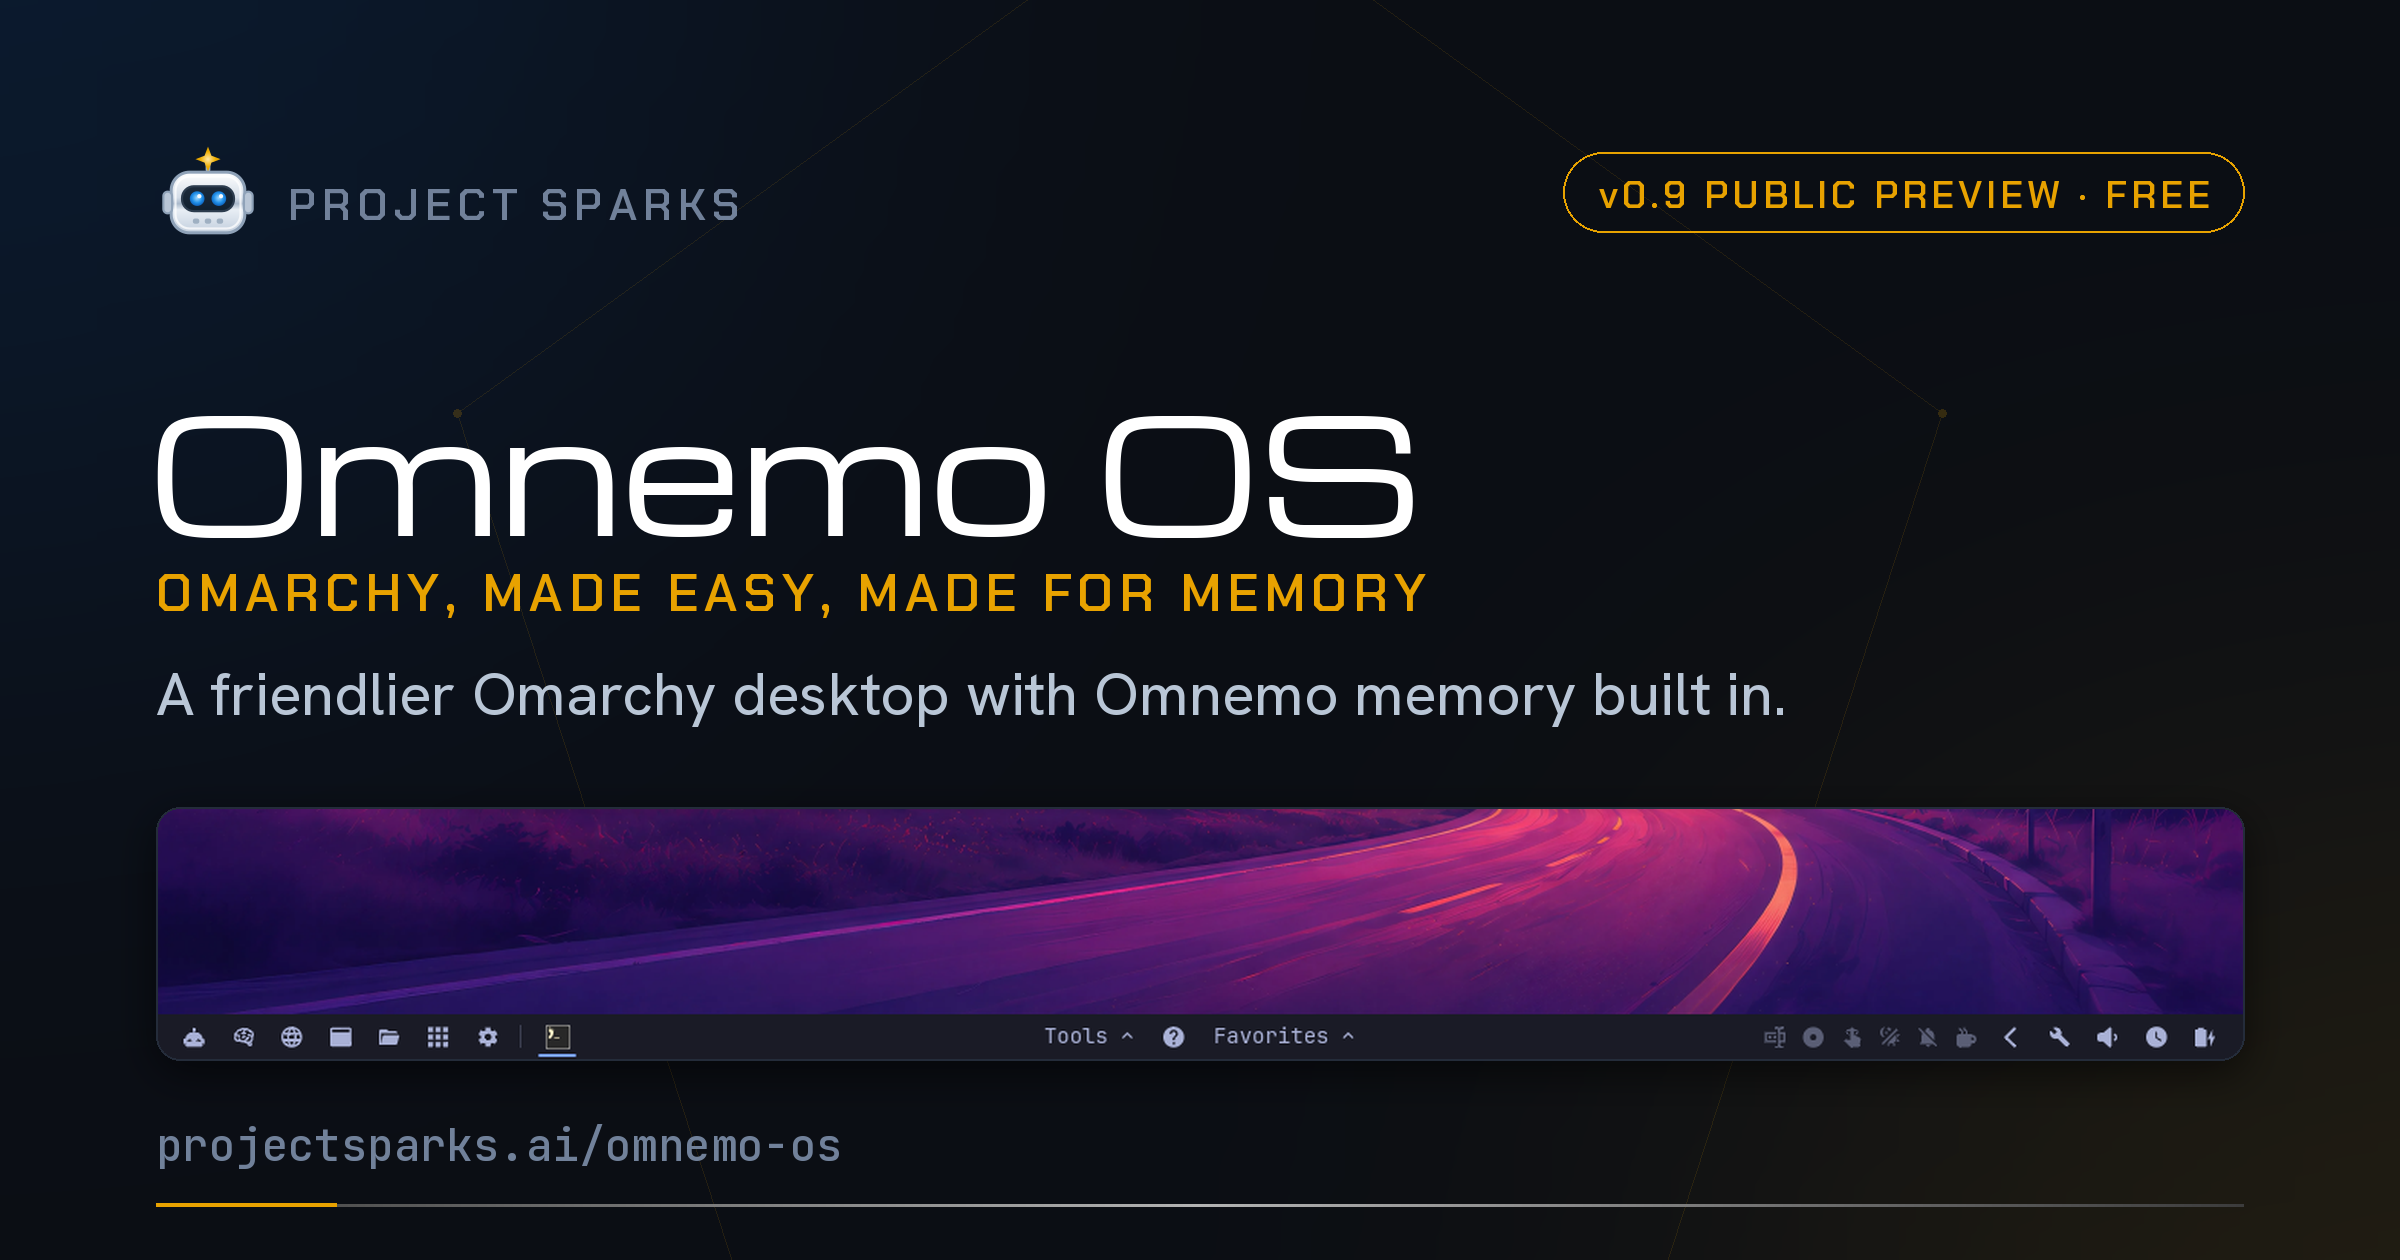
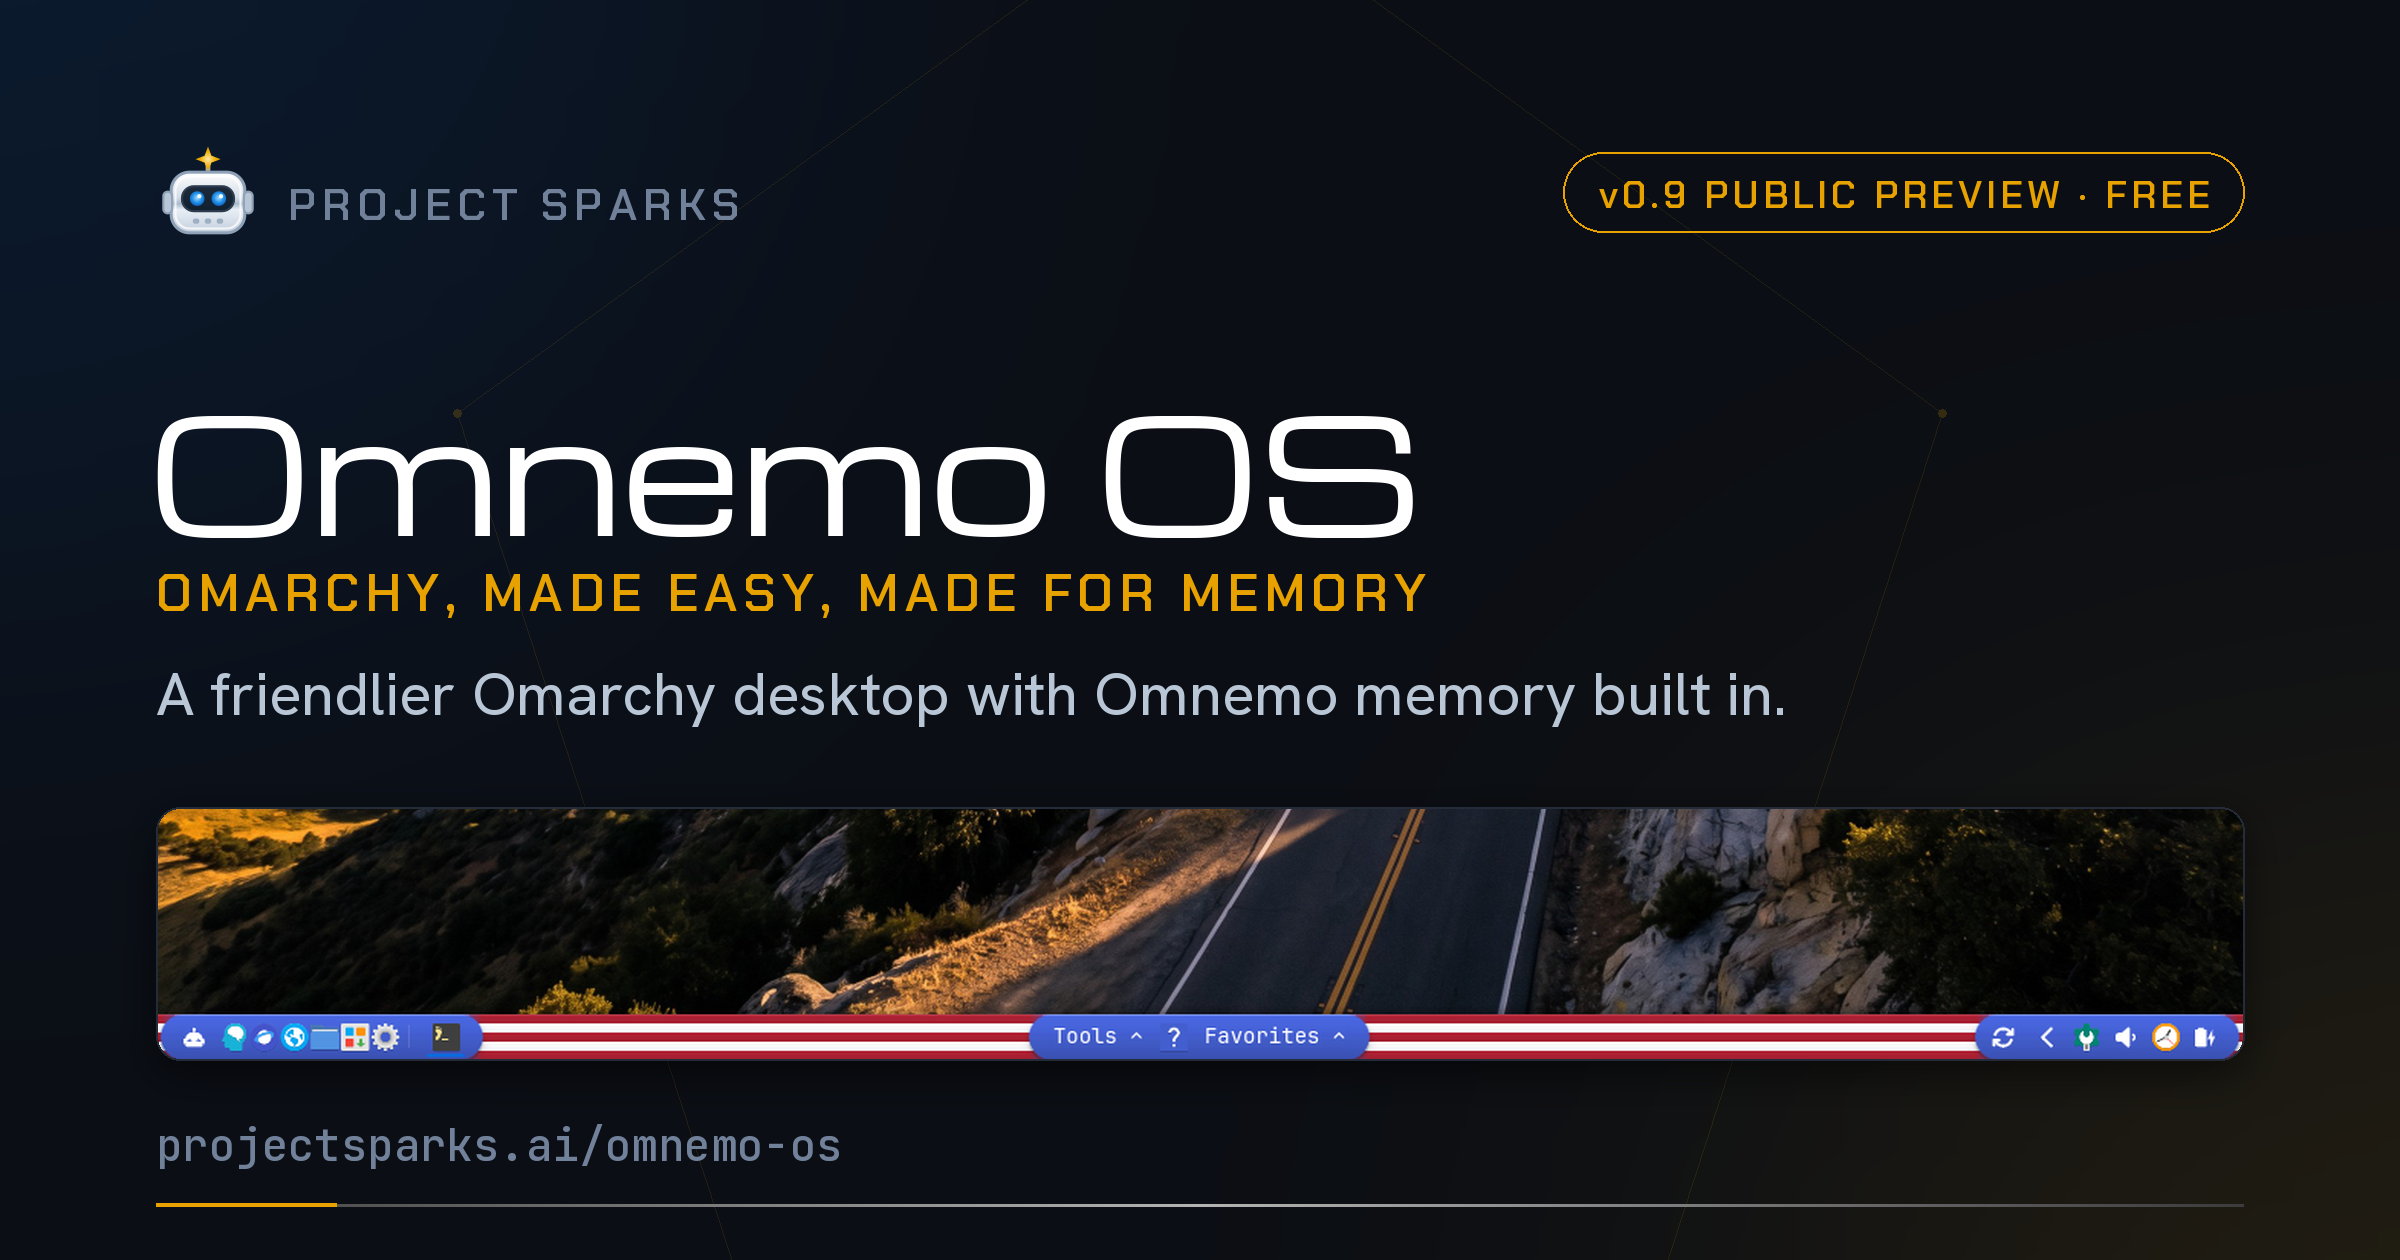
Omnemo OS page + cards: the flag bar (v0.9.2 look)

Changed region(s): [[0.0625, 0.619, 0.9375, 0.8667]]

diff --git a/omnemo-os/index.html b/omnemo-os/index.html
@@ -81,8 +81,8 @@
     </div>
 
     <figure style="max-width: 1100px; margin: 36px auto 0;">
-      <img src="/omnemo-os/images/bar.png" alt="The Omnemo OS taskbar on a real install: app icons on the left, Tools and Favorites menus and a ? guide in the middle, system tray on the right" style="width: 100%; height: auto; display: block; border-radius: 12px; border: 1px solid var(--line-strong); box-shadow: 0 10px 30px rgba(19,28,40,0.18);">
-      <figcaption class="fine-print" style="text-align: center; margin-top: 10px;">The Omnemo OS bar on a real install: a taskbar, Tools and Favorites menus, and a &ldquo;?&rdquo; guide to every icon.</figcaption>
+      <img src="/omnemo-os/images/bar.png" alt="The Omnemo OS flag bar on a real install: blue fields behind the app icons on the left, the Tools and Favorites menus and ? guide in the middle, and the system tray on the right, with red and white stripes between them" style="width: 100%; height: auto; display: block; border-radius: 12px; border: 1px solid var(--line-strong); box-shadow: 0 10px 30px rgba(19,28,40,0.18);">
+      <figcaption class="fine-print" style="text-align: center; margin-top: 10px;">The Omnemo OS flag bar on a real install: a taskbar, Tools and Favorites menus, a &ldquo;?&rdquo; guide to every icon, and the stripes in between.</figcaption>
     </figure>
   </div>
 </section>
